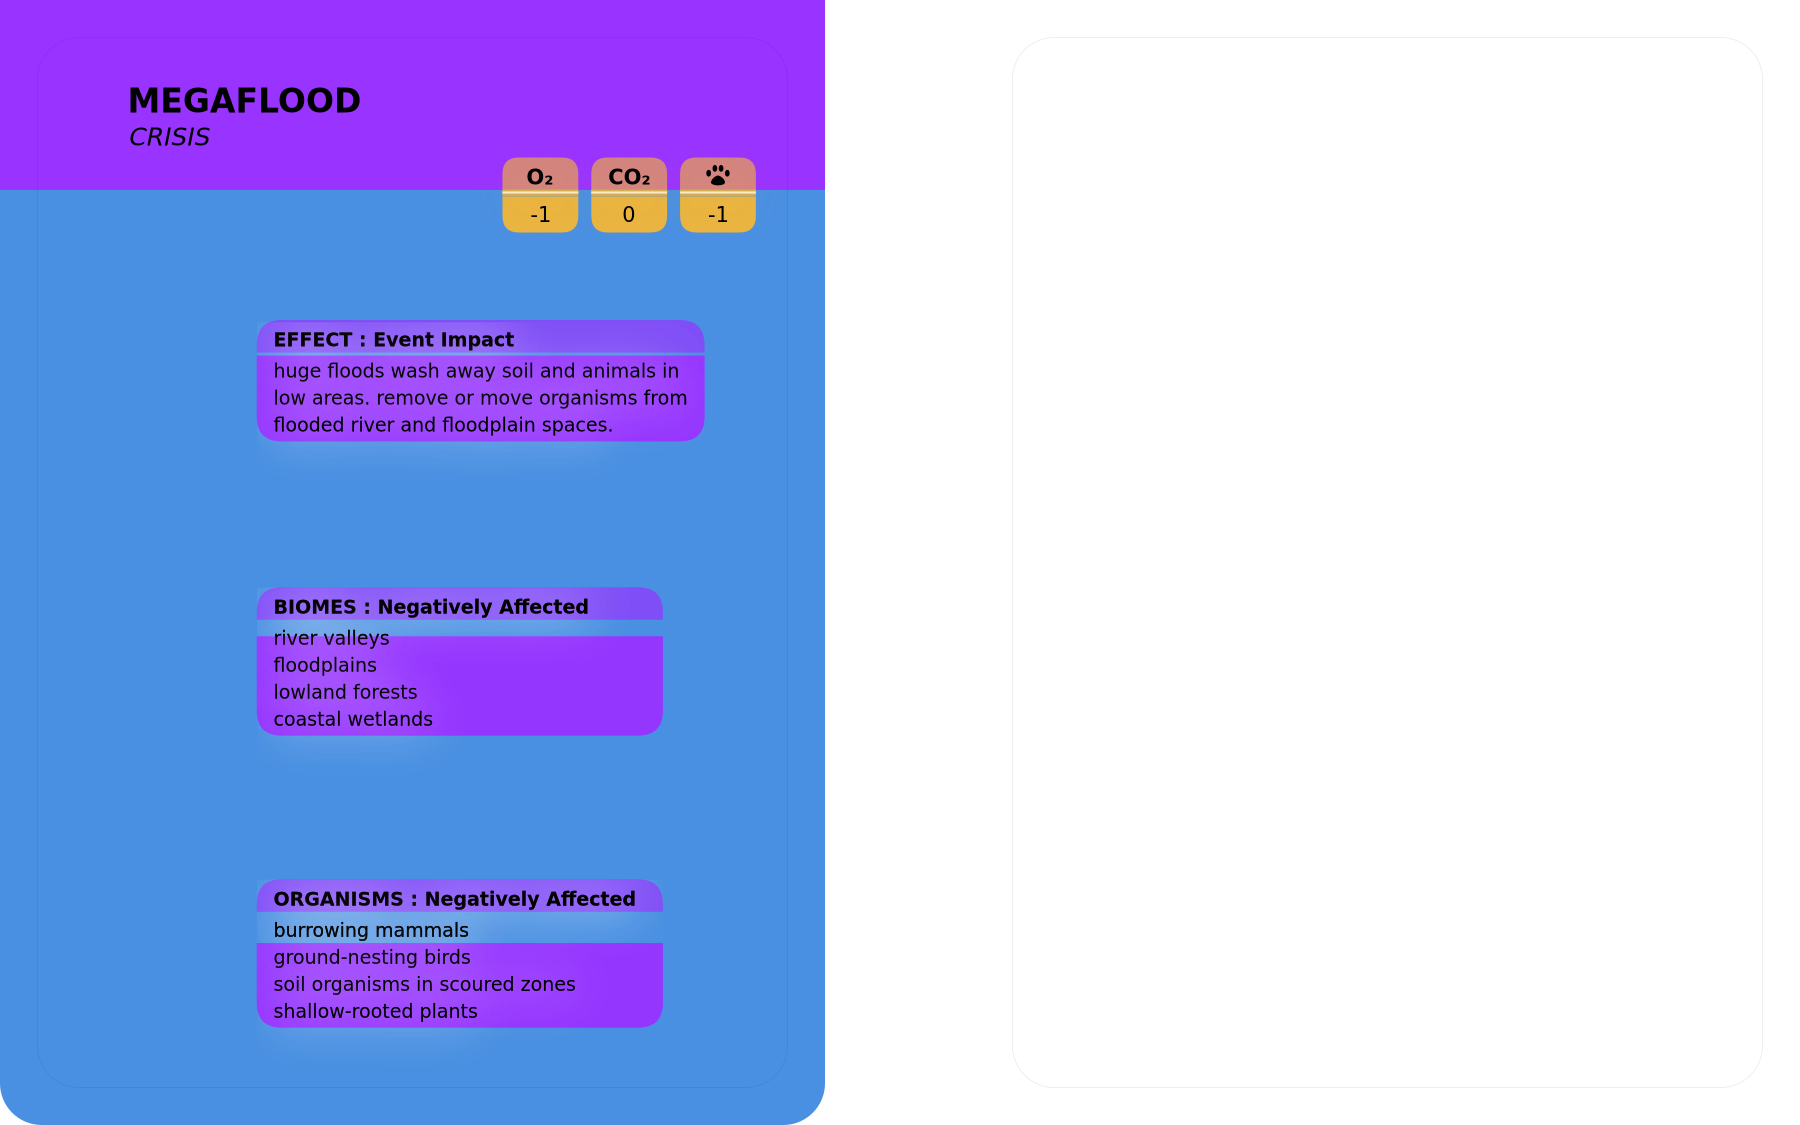
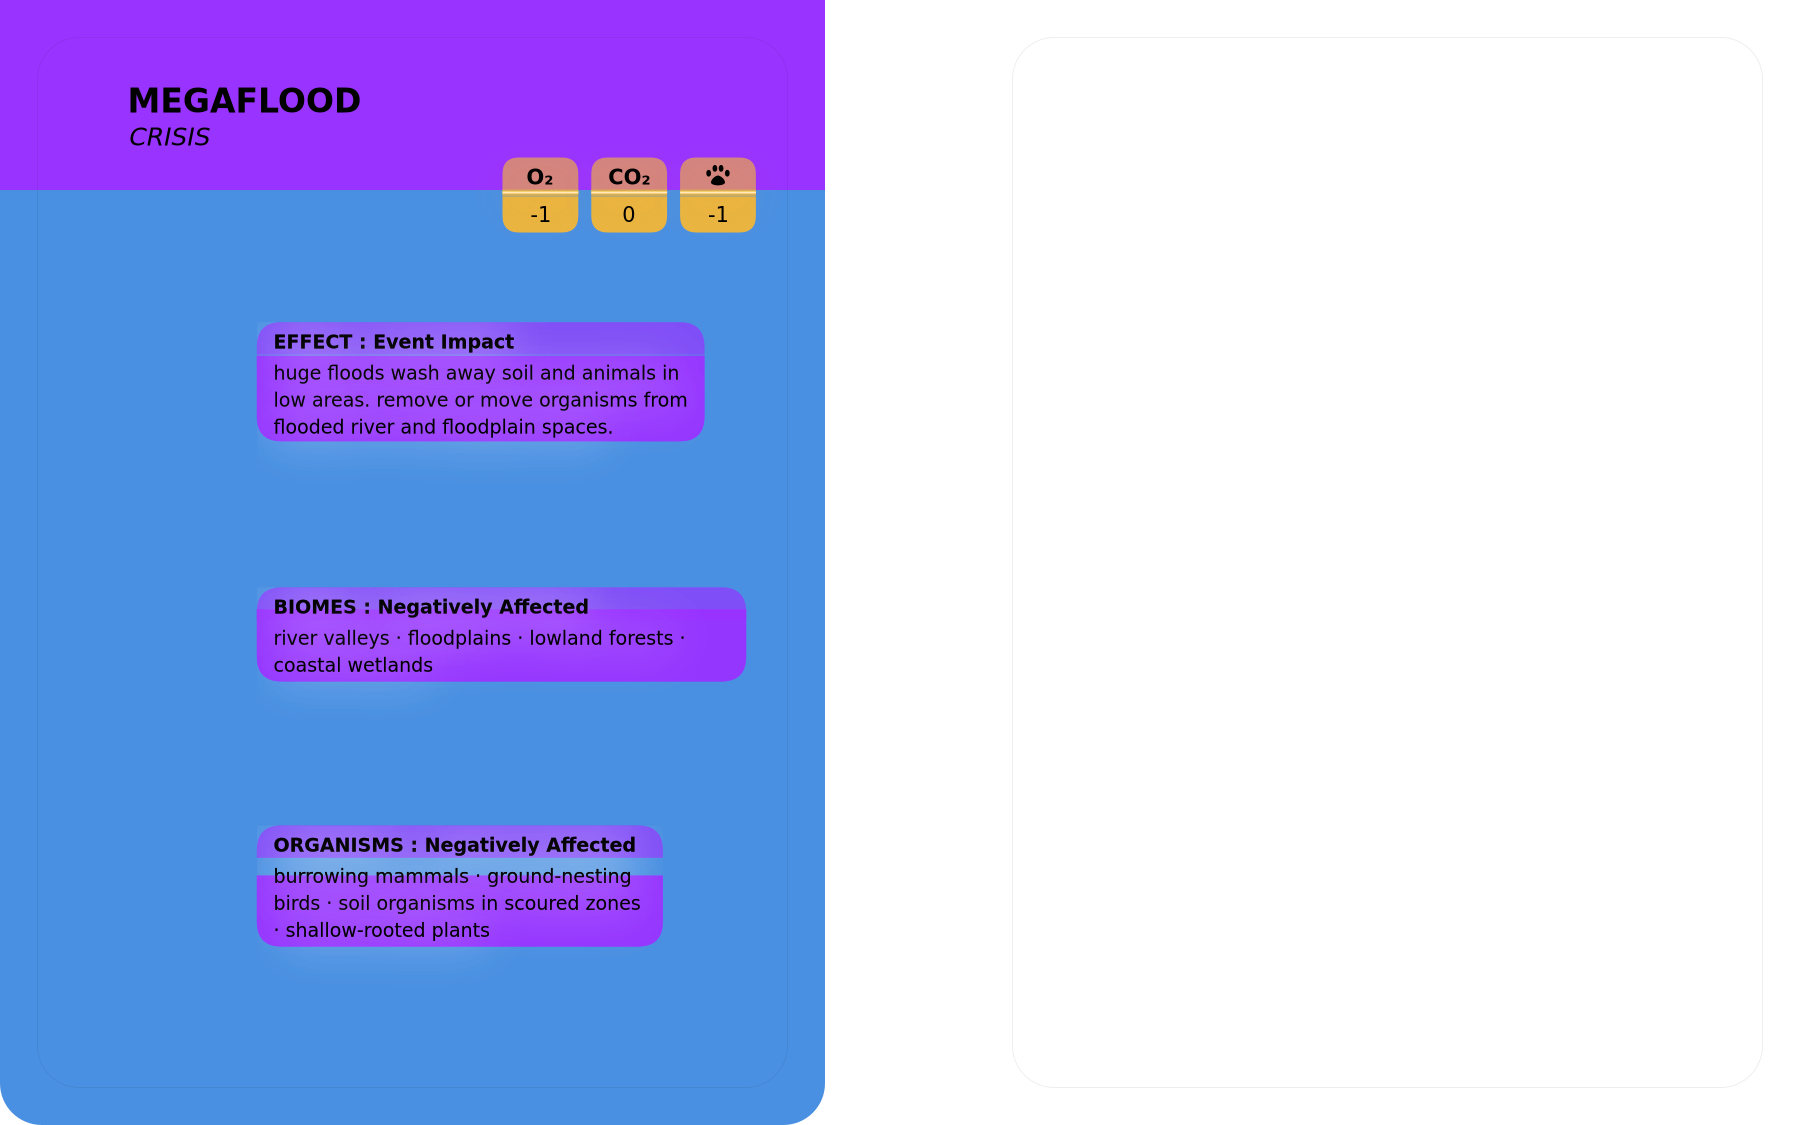
feat: Update effect text for Prolonged Drought and adjust layout for event fields

Changed region(s): [[0.1244, 0.7156, 0.3733, 0.9333], [0.1244, 0.4978, 0.4356, 0.6533], [0.1556, 0.28, 0.3733, 0.4044]]

diff --git a/game/lib/event-cards/draw-field-row.js b/game/lib/event-cards/draw-field-row.js
@@ -18,8 +18,8 @@ module.exports = function drawFieldRow(ctx, { textX, rowY, scale, color, titleCo
   const boxRadius = 6 * scale;
   const lineGap   = Math.round(2 * scale);
   
-  // For Effect field, calculate adjusted row position (moved up 0.5px)
-  const adjustedRowY = label === 'Effect' ? rowY - (0.5 * scale) : rowY;
+  // Use consistent row position for all fields
+  const adjustedRowY = rowY;
   const subY      = adjustedRowY + fieldSize + lineGap;
 
   // Normalize label (ALL CAPS) and sub (lowercase, preserve Ma/Ga)
@@ -48,8 +48,10 @@ module.exports = function drawFieldRow(ctx, { textX, rowY, scale, color, titleCo
   const line1W = labelPartW + mainW;
   const contentW = maxWidth ? Math.min(Math.max(line1W, subW), maxWidth) : Math.max(line1W, subW);
   
-  // Calculate box width and reduce by 20px to make fields narrower
-  const boxW = contentW + 2 * boxPadX - (20 * scale);
+  // Calculate box width - for Biomes field, don't reduce width to keep biome names on one line
+  // For other fields, reduce by 20px to make fields narrower
+  const widthReduction = label === 'Biomes' ? 0 : (20 * scale);
+  const boxW = contentW + 2 * boxPadX - widthReduction;
   
   // For Effect field, add 10px to the right
   const effectBoxW = label === 'Effect' ? boxW + (10 * scale) : boxW;
@@ -110,6 +112,10 @@ module.exports = function drawFieldRow(ctx, { textX, rowY, scale, color, titleCo
       bottomY = rowY - boxPadY + topBoxH - (30 * scale) + (1 * scale) - (7 * scale);
       if (needsAdjustment) {
         bottomY += (6 * scale);
+      }
+      // Additional adjustment for Prolonged Drought: move down 1px
+      if (eventName === 'Prolonged Drought') {
+        bottomY += (1 * scale);
       }
     } else if (label === 'Biomes') {
       bottomY = rowY - boxPadY + topBoxH - (30 * scale) + (1 * scale) + (15 * scale) - (15.5 * scale);

diff --git a/game/lib/event-cards/layout-event-card.js b/game/lib/event-cards/layout-event-card.js
@@ -42,7 +42,7 @@ function getEventFieldDefinitions(event) {
 
   // Field 2: Biomes (negative)
   if (event.biomesBad && event.biomesBad.length) {
-    const biomesList = event.biomesBad.join('\n');
+    const biomesList = event.biomesBad.join(' · ').replace(/ and /g, ' · ');
     fields.push({
       label: 'Biomes',
       main: 'Negatively Affected',
@@ -54,7 +54,7 @@ function getEventFieldDefinitions(event) {
 
   // Field 3: Organisms (negative)
   if (event.organismsBad && event.organismsBad.length) {
-    const orgList = event.organismsBad.map(o => o.group).join('\n');
+    const orgList = event.organismsBad.map(o => o.group).join(' · ').replace(/ and /g, ' · ');
     fields.push({
       label: 'Organisms',
       main: 'Negatively Affected',
